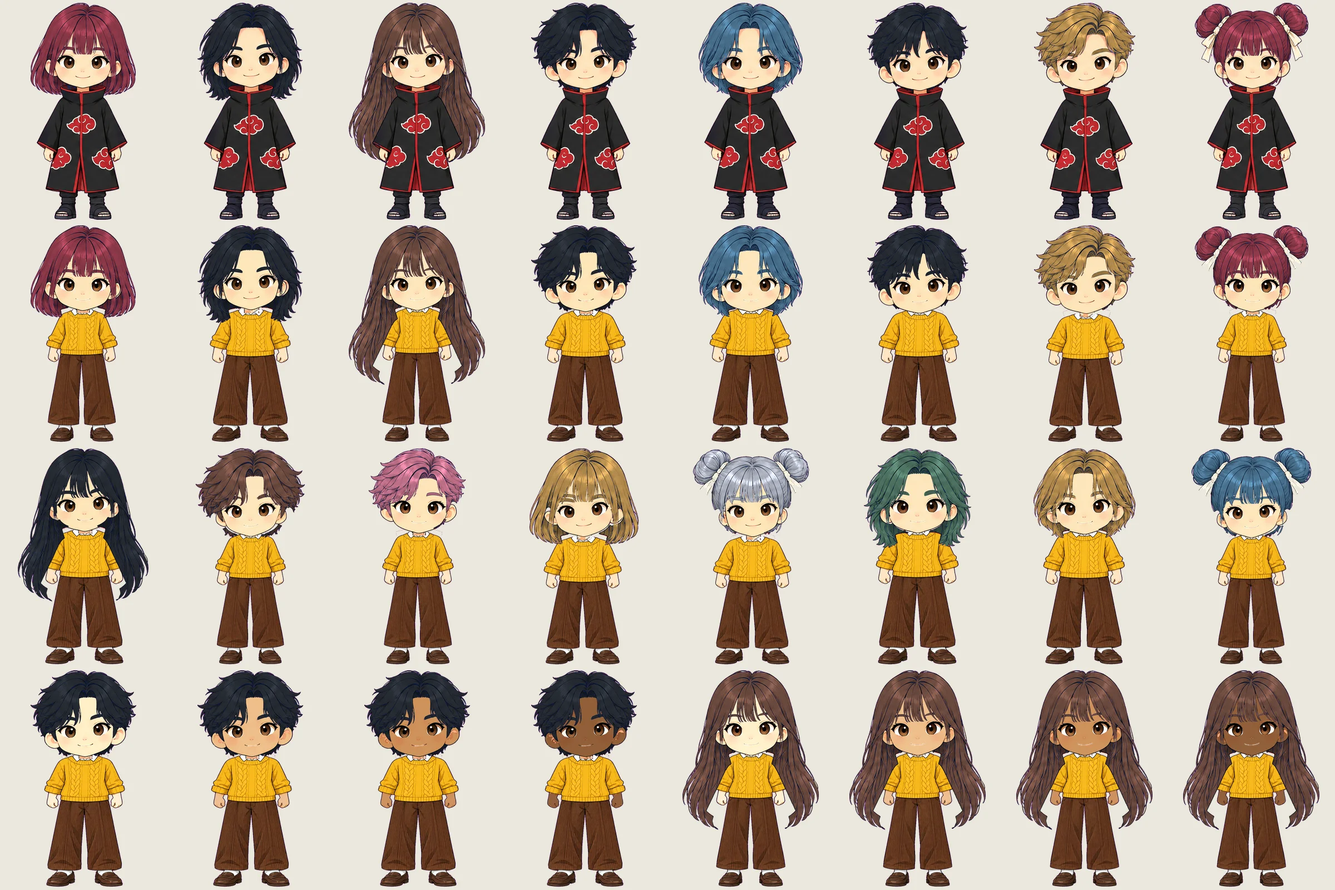
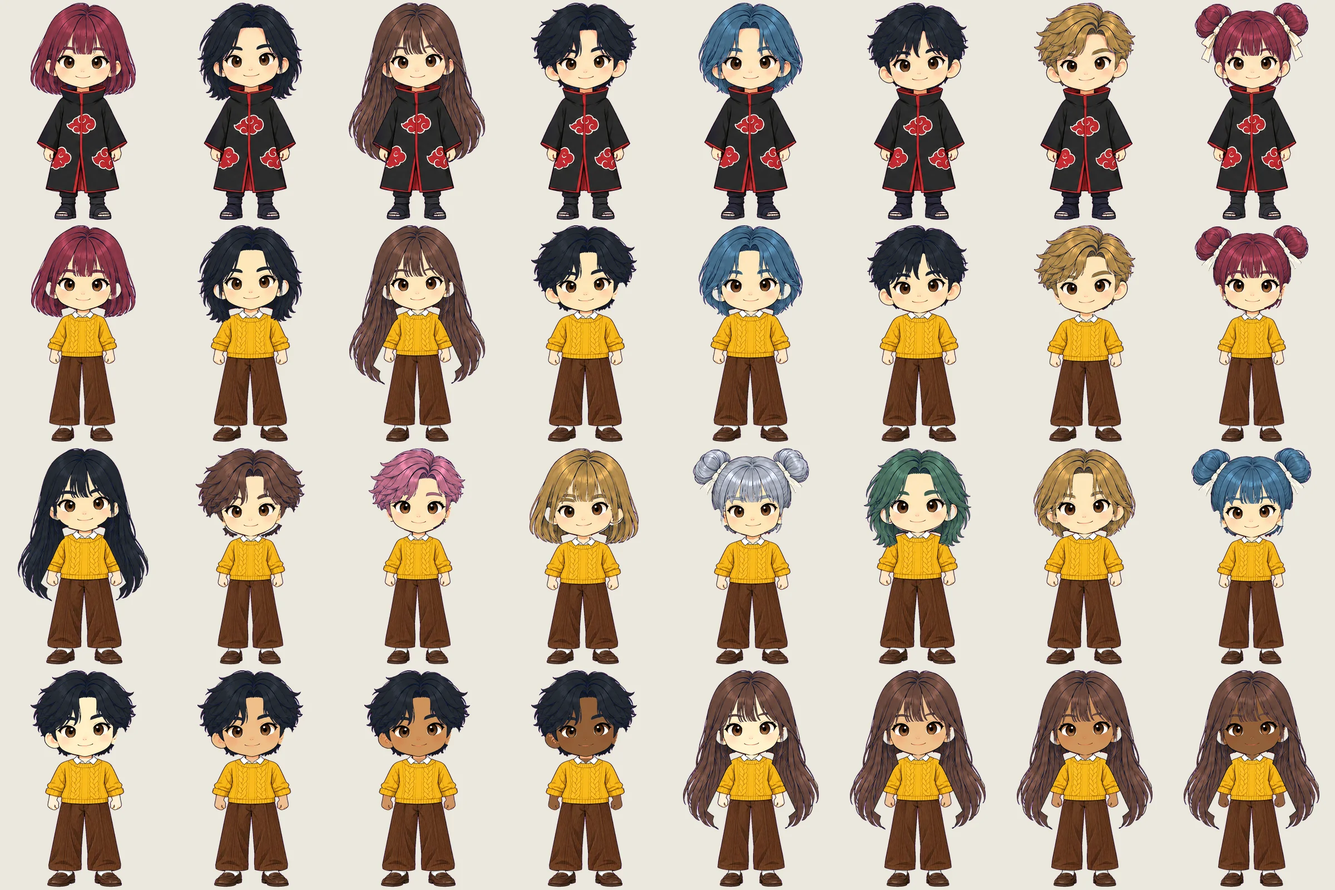
Outfit layers trial v2: keep the mouth line, trim the jaw, show a short neck
Claude-Session: https://claude.ai/code/session_01HULavEv6pBxEfDeGCKxeDu

diff --git a/scripts/outfit-layers/trial-layers-v2.py b/scripts/outfit-layers/trial-layers-v2.py
@@ -83,10 +83,16 @@ for i in range(8):
         al[chin_local + 4:] = 0
         rr, gg, bb = bc[..., 0], bc[..., 1], bc[..., 2]
         sk = (rr > 190) & (gg > 150) & (bb > 115) & (rr > bb + 20)
-        red = (rr > gg + 60) & (rr > bb + 40) & ~sk
-        drk = (rr + gg + bb) < 200
-        zone = np.zeros(al.shape, bool); zone[max(chin_local - 60, 0):] = True
-        al[zone & (red | (drk & ~binary_dilation(sk, iterations=3)))] = 0
+        # head silhouette below the eyes: the skin (face, ears, neck) and the outline hugging it
+        from scipy.ndimage import binary_fill_holes
+        lab_s, ns = label(sk)
+        cy_local = chin_local - 60; cx_local = m['fcx'] - (x0 - cx0)
+        core = lab_s == lab_s[cy_local, cx_local] if lab_s[cy_local, cx_local] else sk
+        sil = binary_dilation(binary_fill_holes(binary_dilation(core | (sk & binary_dilation(core, iterations=12)), iterations=2)), iterations=3)
+        eye_local = int(chars_eye_y) if False else chin_local - 200
+        below = np.zeros(al.shape, bool); below[eye_local:] = True
+        al[below & ~sil] = 0
+        al[chin_local + 3:] = 0
         face = Image.new('RGBA', (cw, ch), (0, 0, 0, 0))
         face.alpha_composite(rgba(bc, al), (x0 - cx0, y0 - cy0))
         face_img = face
@@ -103,9 +109,9 @@ for half in (0, 1):
     white = (r > 235) & (g > 235) & (b > 235)
     ys, xs = np.where(fg); cx = int(np.median(xs[ys < ys.min() + 200]))
     collar = int(np.where(white[:, cx - 25:cx + 25].sum(1) > 10)[0].min())
-    cut = collar - 14
+    cut = collar - 34
     al = fg.astype(float); al[:cut] = 0
-    bodies.append(dict(img=rgba(c, al), cut=cut, feet=int(ys.max()), cx=cx))
+    bodies.append(dict(img=rgba(c, al), cut=cut, feet=int(ys.max()), cx=cx, collar=collar))
 
 def width_at(mask, y, cx):
     row = np.where(mask[y])[0]; row = row[np.abs(row - cx) < 260]
@@ -113,13 +119,13 @@ def width_at(mask, y, cx):
 
 def place_body(out, ci, bi):
     c, bd = chars[ci], bodies[bi]
-    s = (c['feet'] - c['chin']) / (bd['feet'] - bd['cut'] - 14)
+    s = (c['feet'] - c['chin'] - 14) / (bd['feet'] - bd['collar'])
     ow = np.median([width_at(c['torso'], c['chin'] + d, c['fcx']) for d in range(150, 260, 10)])
     bm = np.asarray(bd['img'])[..., 3] > 0
-    bwid = np.median([width_at(bm, int(bd['cut'] + 14 + d / s), bd['cx']) for d in range(150, 260, 10)])
+    bwid = np.median([width_at(bm, int(bd['collar'] + d / s), bd['cx']) for d in range(150, 260, 10)])
     sx = min(max(ow / bwid, s), s * 1.35)
     im = bd['img'].resize((int(bd['img'].width * sx), int(bd['img'].height * s)), Image.LANCZOS)
-    out.alpha_composite(im, (int(c['fcx'] - bd['cx'] * sx), int(c['chin'] - 12 - bd['cut'] * s)))
+    out.alpha_composite(im, (int(c['fcx'] - bd['cx'] * sx), int(c['chin'] + 14 - bd['collar'] * s)))
 
 def place_hair(out, fi, hi):
     # move hair of hi onto the face of fi by matching eye centres and eye spacing
@@ -173,3 +179,12 @@ for ri, row in enumerate([r0, r1, r2, r3]):
         im = im.crop(im.getbbox()); im.thumbnail((T - 20, 390), Image.LANCZOS)
         sheet.paste(im, (j * T + (T - im.width) // 2, ri * 400 + 395 - im.height), im)
 sheet.save(f'{S}/layers2-sheet.png'); print('ok')
+
+if len(sys.argv) > 2 and sys.argv[2] == 'zoom':
+    z = Image.new('RGB', (4 * 400, 2 * 400), (236, 232, 222))
+    for j, i in enumerate([0, 3, 2, 6]):
+        c = chars[i]; y = c['chin']; x = c['fcx']
+        box = (x - 200, y - 260, x + 200, y + 140)
+        o = r0[i].crop(box); n = r1[i].crop(box)
+        z.paste(o, (j * 400, 0), o); z.paste(n, (j * 400, 400), n)
+    z.save(f'{S}/zoom.png')
